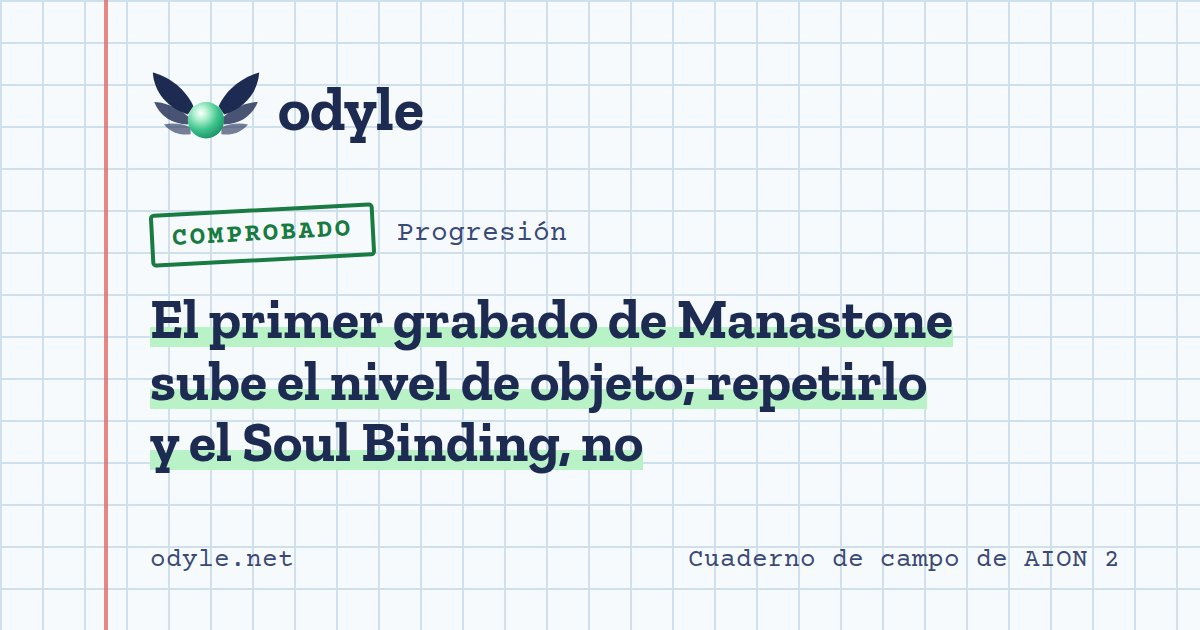
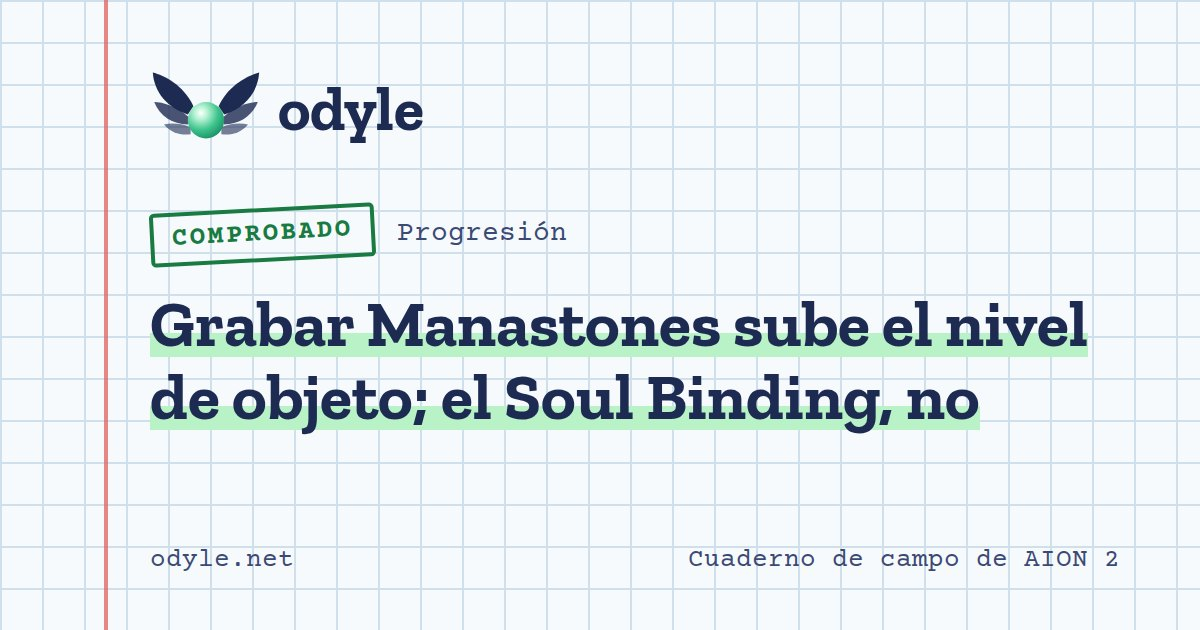
Manastone: corregida la entrada (el nivel depende del color de las líneas); apunte del 45 a los 1.000 con lo que más sube según las guías

Changed region(s): [[0.1233, 0.4524, 0.925, 0.754]]

diff --git a/src/content/entries/es/primer-grabado-de-manastone-sube-nivel.md b/src/content/entries/es/primer-grabado-de-manastone-sube-nivel.md
@@ -1,6 +1,6 @@
 ---
-title: El primer grabado de Manastone sube el nivel de objeto; repetirlo y el Soul Binding, no
-description: Grabar una vez cada pieza me llevó de 726 a 800. Volver a grabar y el Soul Binding lo dejaron igual. Y el Soul Binding cuesta el doble de lo que dicen las guías.
+title: Grabar Manastones sube el nivel de objeto; el Soul Binding, no
+description: Grabar una vez cada pieza me llevó de 726 a 800. Tres intentos de Soul Binding lo dejaron igual. Y el Soul Binding cuesta el doble de lo que dicen las guías.
 status: comprobado
 topic: progresion
 verifiedAt: 2026-10-09
@@ -9,19 +9,21 @@ firstHand: true
 sources:
   - { title: 'Best stats Manastones for every class — odealo', url: 'https://odealo.com/articles/best-stats-manastones-for-every-class-aion-2-guide', lang: en }
   - { title: 'Manastones, Theostones y Soul Binding — gamesfuze', url: 'https://gamesfuze.com/guides/aion-2-how-to-upgrade-gear-manastones-theostones-and-soul-binding/', lang: en }
+history:
+  - { date: 2026-10-09, note: 'Corregida: decía que volver a grabar nunca sube el nivel. Lo que vi es que no lo subió con líneas del mismo color.' }
 updated: 2026-10-09
 translationKey: primer-grabado-de-manastone-sube-nivel
 ---
 
 ## Lo que se dice
 
-Una guía dice que cada Manastone suma de 1 a 4 de nivel de objeto según lo buena que salga la tirada. Otra da 30.000 de Kina por cada intento de Soul Binding. Varias aconsejan no gastar Manastones en equipo que vas a cambiar, porque se pierden.
+Una guía dice que cada Manastone suma de 1 a 4 de nivel de objeto según lo buena que salga la tirada; otra, que cada línea suma 1 si es gris, 2 si es verde y 3 si es azul. Otra da 30.000 de Kina por cada intento de Soul Binding. Varias aconsejan no gastar Manastones en equipo que vas a cambiar, porque se pierden.
 
 ## Lo que pasa
 
 La ventana se abre con la N y tiene cinco pestañas: Growth, Manastone, Theostone, Soul Binding y Transfer.
 
-**Manastone.** Cada «Engrave» gasta una piedra y 2.000 de Kina, y vuelve a tirar las líneas. Grabé una vez cada pieza equipada y el nivel de objeto pasó de 726 a **800**. Después volví a grabar la espada varias veces buscando mejores líneas, y el nivel no se movió.
+**Manastone.** Cada «Engrave» gasta una piedra y 2.000 de Kina, y vuelve a tirar las líneas. Grabé una vez cada pieza equipada y el nivel de objeto pasó de 726 a **800**. Después volví a grabar la espada varias veces buscando mejores líneas, y el nivel no se movió, pero las líneas nuevas salieron del mismo color que las viejas: tres grises y una verde. Que una tirada mejor lo suba, como dicen las guías, no lo he podido ver.
 
 El botón «Auto Engrave» graba solo hasta cumplir un objetivo. Se elige grado, cantidad de líneas y estadísticas. Con el grado más bajo solo deja pedir una línea; con «Superior or Higher», dos. Las líneas que pueden salir, con su rango:
 
@@ -42,5 +44,5 @@ El botón «Auto Engrave» graba solo hasta cumplir un objetivo. Se elige grado,
 ## Qué hacer
 
 - **Graba una Manastone en cada pieza nueva que te pongas**, aunque sea de paso: sube el nivel de objeto por 2.000 de Kina.
-- Volver a grabar y el Soul Binding mejoran estadísticas, pero no el nivel. Déjalos para las piezas que vas a llevar tiempo, y cuando sobre Kina.
+- El Soul Binding mejora estadísticas, pero no el nivel. Volver a grabar solo lo sube si salen líneas de mejor color. Déjalos para las piezas que vas a llevar tiempo, y cuando sobre Kina.
 - Antes de extraer una pieza vieja, mira la pestaña Transfer.

diff --git a/src/content/notes/es/del-45-a-los-1000.md b/src/content/notes/es/del-45-a-los-1000.md
@@ -12,6 +12,9 @@ sources:
   - { title: 'AION 2 Arcana Guide — metabot', url: 'https://metabot.gg/en/aion-2/guides/arcana-guide', lang: en }
   - { title: 'AION 2 Ascension Trial Guide — gamesfuze', url: 'https://gamesfuze.com/guides/aion-2-ascension-trial-guide/', lang: en }
   - { title: 'Enhancement Calculator — metabot', url: 'https://metabot.gg/en/aion-2/enhancement', lang: en }
+  - { title: 'Gear score guide: every item level threshold — corpus.gg', url: 'https://corpus.gg/blog/aion-2/gear-score-guide', lang: en }
+  - { title: 'Gear Progression: Level 45 Upgrade Order — metabot', url: 'https://metabot.gg/en/aion-2/guides/gear-progression-guide', lang: en }
+  - { title: 'Del 1.000 al 2.300: ruta rápida — Inven', url: 'https://www.inven.co.kr/webzine/news/?news=311942&site=aion2', lang: ko }
 translationKey: del-45-a-los-1000
 ---
 
@@ -27,7 +30,7 @@ Comprobado en mi pantalla:
 - **El primer grabado de Manastone de cada pieza.** Una vez cada pieza: de 726 a 800.
 - **Equipar piezas mejores.** Las doradas de Bakarma, de Draupnir, son únicas de nivel 54.
 
-Lo que **no** lo sube: volver a grabar Manastones y el Soul Binding. Mejoran estadísticas, pero el número se queda igual ([la entrada](/es/cuaderno/primer-grabado-de-manastone-sube-nivel/)).
+Lo que **no** lo sube: el Soul Binding. Volver a grabar Manastones tampoco me lo subió, pero las líneas salieron del mismo color; según corpus.gg, cada línea suma 1 si es gris, 2 si es verde y 3 si es azul ([la entrada](/es/cuaderno/primer-grabado-de-manastone-sube-nivel/)).
 
 Según las guías, también suma cada cristal de Daevanion gastado.
 
@@ -39,6 +42,17 @@ Según las guías, también suma cada cristal de Daevanion gastado.
 4. **Antes de extraer** una pieza vieja, mira la pestaña Transfer.
 
 La Kina se va deprisa. En un día de mejorar, grabar y Soul Binding pasé de 2,1 millones a 300.000.
+
+## Lo que más sube, según las guías
+
+Sin comprobar todavía en mi cliente:
+
+- **Clash Runes.** Hay dos huecos de runa y cada una suma 40, según corpus.gg. Salen de cofres de misiones regionales. Pasar a +1 no falla; a +2 hay un 80 %, y si falla la runa puede romperse.
+- **Cinturón y amulete.** Empiezan raros, de nivel 13. Al llegar a +10 se transforman con Substance Morph en épicos de 36, y otra vez a +10 en únicos de 65 (metabot). El cinturón se sube con pergaminos de las fortalezas y el amulete con los de las plumas.
+- **Piezas de paso de nivel 46:** los conjuntos de élites con nombre de los mapas de casa (metabot).
+- **Fabricar una pieza True Dragon Lord**, de nivel 62 (metabot).
+- **En Corea** recomiendan comprar en el Mercado cualquier pieza única barata para los huecos más flojos, subirla a +3 o +5 y grabarle Manastones baratas. En mi Mercado, las piezas únicas más baratas costaban de 1 a 2 millones.
+- **Krao Cave da armas y accesorios; Draupnir, armadura.** Hacer solo una deja huecos.
 
 ## De dónde salen las piedras y la Kina
 
